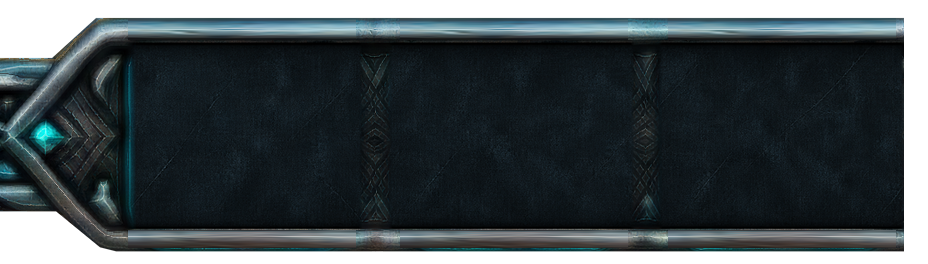
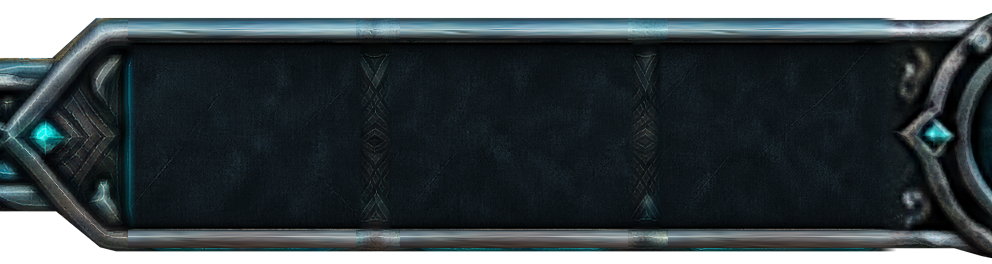
fix(hud): target panel exact match - right end medallion and right wing-tip diamond were never placed (EndRight sat at the strip origin over the left one = the doubled ring; no right medallion), frame geometry as pure StripMath.TargetFrame; rail stubs under the wing-tip diamonds (no gap, the runs ke

diff --git a/src/RuneSkin/Hud/HudCluster.cs b/src/RuneSkin/Hud/HudCluster.cs
@@ -135,6 +135,14 @@ namespace RuneSkin.PlayerHud
                 _eitr.UseShader(barShader, "color.hud.bar.fx.eitr", BarFxPool.Arcane);
                 _adrenaline.UseShader(barShader, "color.hud.bar.fx.adrenaline");
             }
+            // Target panel: the bar block piece is the outer frame only - each channel draws its own pill rim (the
+            // stamina | eitr split moves, so the rims cannot be baked into the block).
+            if (HudStrip.Target)
+            {
+                float rx = ThemeTokens.GetFloat("size.hud.strip7.rim.x", 4.3f), ry = ThemeTokens.GetFloat("size.hud.strip7.rim.y", 4.3f);
+                foreach (var b in new[] { _health, _stamina, _eitr, _adrenaline })
+                    b.Rim("sprite.hud.strip7.rim", "color.hud.strip.frame", rx, ry, ThemeTokens.GetFloat("share.hud.strip4.art", 1f));
+            }
             _row[0] = _stamina;
             _row[1] = _eitr;
             _row[2] = _adrenaline;
@@ -583,7 +591,7 @@ namespace RuneSkin.PlayerHud
                 h = h * 31 + (_root.parent ? _root.parent.lossyScale.x : 0f).GetHashCode();
                 h = h * 31 + (_canvas && _canvas.rootCanvas ? _canvas.rootCanvas.scaleFactor : 0f).GetHashCode();
                 h = h * 31 + (Plugin.HudScale?.Value ?? 1f).GetHashCode();
-                h = h * 31 + (Plugin.StripWidth?.Value ?? 0.96f).GetHashCode();
+                h = h * 31 + (Plugin.StripWidth?.Value ?? 1f).GetHashCode();
                 h = h * 31 + ResponsiveContext.SkinScale.GetHashCode();
                 h = h * 31 + SlotCanvasScale().GetHashCode();
                 h = h * 31 + (Plugin.UltrawideBox?.Value ?? true ? 1 : 0);
@@ -634,7 +642,7 @@ namespace RuneSkin.PlayerHud
             // the width is HudStrip.Width of the box and only the wings' straight rails stretch to fill it.
             var slotPx = StripMath.SlotPx(ThemeTokens.GetFloat("size.slot", 70f), ResponsiveContext.SkinScale, SlotCanvasScale());
             _pxPerUnit = StripMath.UnitPx(slotPx, ThemeTokens.GetFloat("size.hud.strip.cell", 85f));
-            var widthPx = StripMath.WidthPx(boxW, Plugin.StripWidth?.Value ?? 0.96f);
+            var widthPx = StripMath.WidthPx(boxW, Plugin.StripWidth?.Value ?? 1f);
             var input = _hudStrip.Input(widthPx / _pxPerUnit, barsH);
             var l = StripMath.Compute(input);
             _hudStrip.Apply(l, input);
@@ -653,8 +661,10 @@ namespace RuneSkin.PlayerHud
             RowPlace();
             _ = plaqueOn;
             // Screen placement: centred in the box, the bottom margin above the safe area.
-            var margin = ThemeTokens.GetFloat("size.hud.strip.margin", 8f) * s;
-            var bottom = safe.y + margin;
+            // Target panel (user 2026-10-23): flush with the screen bottom - the lowest frame edge (the end medallion tips
+            // under the wings) on the safe-area bottom, nothing clipped, no world under the panel.
+            var margin = HudStrip.Target ? 0f : ThemeTokens.GetFloat("size.hud.strip.margin", 8f) * s;
+            var bottom = safe.y + margin - (HudStrip.Target ? _hudStrip.FrameBottom * _pxPerUnit : 0f);
             var left = boxX + (boxW - widthPx) / 2f;
             PlaceAtScreen(_root, new Vector2(left, bottom), _pxPerUnit);
             _stripWidth = input.Width;
@@ -664,8 +674,9 @@ namespace RuneSkin.PlayerHud
             // InventoryMath's standard gap (size.inv.gap) from the strip top.
             _reservedTop = bottom + l.Height * _pxPerUnit + ThemeTokens.GetFloat("size.panel.glass.inset", 0f) * s;
             TextFloors();
-            ChatClear(bottom + l.Height * _pxPerUnit + ThemeTokens.GetFloat("size.hud.strip.chat.gap", 12f) * s);
-            Plugin.Log.LogInfo($"[RuneSkin] HUD strip layout: width {widthPx:0}px slot {slotPx:0.#}px scale {_pxPerUnit:0.###} height {l.Height:0} units = {l.Height * _pxPerUnit:0} px " +
+            _chatTopUnits = l.Height;
+            _chatGapPx = ThemeTokens.GetFloat("size.hud.strip.chat.gap", 12f) * s;
+            Plugin.Log.LogInfo($"[RuneSkin] HUD strip layout: width {widthPx:0}px origin ({left:0.##},{bottom:0.##})px slot {slotPx:0.#}px scale {_pxPerUnit:0.####} height {l.Height:0} units = {l.Height * _pxPerUnit:0} px " +
                                $"({100f * l.Height * _pxPerUnit / Mathf.Max(1f, Screen.height):0.0} % of {Screen.height}), food {l.FoodShown}/{_hudStrip.FoodCount} potions {l.PotionShown}/{_hudStrip.PotionCount} (wing fits {l.FoodMax}) abilities {_hudStrip.AbilityCount}{(l.Fits ? "" : " (tight)")}");
         }
 
@@ -694,68 +705,63 @@ namespace RuneSkin.PlayerHud
                 if (f) f.Apply();
         }
 
-        // The vanilla chat box (bottom right, Terminal.m_chatWindow; vanilla never moves it, Chat.cs) sits on the strip's
-        // right wing once the strip spans the screen: lifted so the box (its drawn graphics, not the window rect) clears
-        // the strip top. Measured while the window is shown (a hidden chat keeps stale rects): pending until then.
-        private RectTransform _chatWindow;
-        private Vector2 _chatHome;
-        private float _chatTarget;
-        private bool _chatPending, _chatWasActive;
+        // The vanilla chat box (bottom right, Terminal.m_chatWindow; vanilla never moves it, Chat.cs) sits over the
+        // strip's right wing once the strip spans the screen: lifted so its drawn graphics clear the strip top + a gap.
+        // Root cause of the stale lifts (runs 20261023-161531 / -175632: lifted from wherever the box was after a
+        // resolution change, or not at all): everything is now relative and live - the graphics' bottom is measured
+        // once in the window's own units (position independent), the home anchored position is taken once before any
+        // move, and every frame the wanted position = home + max(0, strip top - home bottom) in the window parent's
+        // units, both converted through their own canvases at that frame (no screen px cached across frames).
+        private static RectTransform _chatWindow;
+        private static Vector2 _chatHome;
+        private float _chatBottomW = float.NaN, _chatTopUnits = -1f, _chatGapPx;
+        private bool _chatWasActive;
         private readonly List<Graphic> _chatGraphics = new List<Graphic>(16);
         private readonly Vector3[] _corners = new Vector3[4];
-
-        private void ChatClear(float stripTopPx)
-        {
-            _chatTarget = stripTopPx;
-            _chatPending = true;
-            ChatTick();
-        }
 
         private void ChatTick()
         {
             var chat = Chat.instance;
             var w = chat ? chat.m_chatWindow : null;
-            var active = w && w.gameObject.activeInHierarchy;
-            // every time the chat shows, measure again (run 20261023-161531: measured once on a stale canvas scale
-            // right after a resolution change, then never again)
-            if (active && !_chatWasActive) _chatPending = true;
-            _chatWasActive = active;
-            if (!_chatPending || !active) return;
-            var rootCanvas = w.GetComponentInParent<Canvas>();
-            rootCanvas = rootCanvas ? rootCanvas.rootCanvas : null;
-            if (rootCanvas && Mathf.Abs(rootCanvas.scaleFactor - ResponsiveContext.GuiFactor) > 0.001f) return; // CanvasScaler not caught up
+            if (!w || !(w.parent is RectTransform parent) || _chatTopUnits < 0f) return;
             if (w != _chatWindow)
             {
                 _chatWindow = w;
-                _chatHome = w.anchoredPosition;
+                _chatHome = w.anchoredPosition; // before any move of ours
+                _chatBottomW = float.NaN;
             }
-            if (w.anchoredPosition != _chatHome) w.anchoredPosition = _chatHome;
-            var canvas = w.GetComponentInParent<Canvas>();
-            if (!canvas) return;
-            var cam = canvas.rootCanvas.renderMode == RenderMode.ScreenSpaceOverlay ? null : canvas.rootCanvas.worldCamera;
-            w.GetComponentsInChildren(false, _chatGraphics);
-            var bottom = float.MaxValue;
-            foreach (var g in _chatGraphics)
+            var active = w.gameObject.activeInHierarchy;
+            if (active && !_chatWasActive) _chatBottomW = float.NaN; // re-measure on show (laid out while shown)
+            _chatWasActive = active;
+            if (float.IsNaN(_chatBottomW))
             {
-                if (!g.enabled || g.rectTransform.rect.width < 1f || g.rectTransform.rect.height < 1f) continue;
-                g.rectTransform.GetWorldCorners(_corners);
-                bottom = Mathf.Min(bottom, RectTransformUtility.WorldToScreenPoint(cam, _corners[0]).y);
+                if (!active) return;
+                w.GetComponentsInChildren(false, _chatGraphics);
+                var min = float.MaxValue;
+                foreach (var g in _chatGraphics)
+                {
+                    if (!g.enabled || g.rectTransform.rect.width < 1f || g.rectTransform.rect.height < 1f) continue;
+                    g.rectTransform.GetWorldCorners(_corners);
+                    min = Mathf.Min(min, w.InverseTransformPoint(_corners[0]).y);
+                }
+                if (min == float.MaxValue) return; // laid out next frame
+                _chatBottomW = min;
             }
-            if (bottom == float.MaxValue) return; // laid out next frame: still pending
-            _chatPending = false;
-            var lift = _chatTarget - bottom;
-            if (lift <= 0f)
-            {
-                Plugin.Log.LogInfo($"[RuneSkin] chat box clear of the strip (bottom {bottom:0} px, strip top {_chatTarget:0} px)");
-                return;
-            }
-            // screen px -> the window's anchored units (its parent's scale)
-            w.GetWorldCorners(_corners);
-            var p0 = RectTransformUtility.WorldToScreenPoint(cam, _corners[0]).y;
-            var up = RectTransformUtility.WorldToScreenPoint(cam, _corners[0] + w.parent.TransformVector(Vector3.up)).y - p0;
-            if (!(up > 0f)) return;
-            w.anchoredPosition = _chatHome + new Vector2(0f, lift / up);
-            Plugin.Log.LogInfo($"[RuneSkin] chat box lifted {lift:0} px (bottom {bottom:0} px -> strip top {_chatTarget:0} px)");
+            var hudCanvas = _canvas ? _canvas.rootCanvas : null;
+            var chatCanvas = w.GetComponentInParent<Canvas>();
+            chatCanvas = chatCanvas ? chatCanvas.rootCanvas : null;
+            if (!hudCanvas || !chatCanvas) return;
+            var hudCam = hudCanvas.renderMode == RenderMode.ScreenSpaceOverlay ? null : hudCanvas.worldCamera;
+            var chatCam = chatCanvas.renderMode == RenderMode.ScreenSpaceOverlay ? null : chatCanvas.worldCamera;
+            var top = RectTransformUtility.WorldToScreenPoint(hudCam, _root.TransformPoint(new Vector3(0f, _chatTopUnits, 0f)));
+            top.y += _chatGapPx;
+            if (!RectTransformUtility.ScreenPointToLocalPointInRectangle(parent, top, chatCam, out var topLocal)) return;
+            var bottomNow = parent.InverseTransformPoint(w.TransformPoint(new Vector3(0f, _chatBottomW, 0f))).y;
+            var homeBottom = bottomNow - (w.anchoredPosition.y - _chatHome.y);
+            var want = _chatHome + new Vector2(0f, Mathf.Max(0f, topLocal.y - homeBottom));
+            if ((w.anchoredPosition - want).sqrMagnitude < 0.01f) return;
+            w.anchoredPosition = want;
+            Plugin.Log.LogInfo($"[RuneSkin] chat box at {want.y - _chatHome.y:0.#} units above home (strip top {top.y:0} px)");
         }
 
         // Status groups above the strip (user call 2026-10-22): buffs on one side, debuffs on the other (Hud.BuffSide),

diff --git a/src/RuneSkin/Hud/HudStrip.cs b/src/RuneSkin/Hud/HudStrip.cs
@@ -26,6 +26,7 @@ namespace RuneSkin.PlayerHud
         private readonly RectTransform _root, _back;
         private RectTransform _front;
         private readonly Image _wingL, _wingR, _bars, _block, _divider, _railL, _railR, _knotL, _knotR, _endL, _endR, _iconHp, _iconSt, _iconEi, _knot2L, _knot2R;
+        private readonly Image _field, _stubL, _stubR;
 
         // Target panel layout (mode.hud.strip.target, user screenshot 2026-10-23, strip-target/spec.md).
         public static bool Target => ThemeTokens.GetFloat("mode.hud.strip.target", 0f) > 0.5f;
@@ -76,18 +77,22 @@ namespace RuneSkin.PlayerHud
             // then the medallions and the cells (BuildFront).
             // Target panel extras (user screenshot 2026-10-23): rail runs and small diamond knots between the wings and the
             // bar block, the wings themselves (fixed pieces, the right one its own art), end medallions over the wing ends.
+            _stubL = Piece("RailStubLeft", _back, "sprite.hud.strip7.rail", Image.Type.Tiled);
+            _stubR = Piece("RailStubRight", _back, Own("sprite.hud.strip7.rail"), Image.Type.Tiled);
             _railL = Piece("RailLeft", _back, "sprite.hud.strip7.rail", Image.Type.Sliced);
             _railR = Piece("RailRight", _back, Own("sprite.hud.strip7.rail"), Image.Type.Sliced);
-            _knotL = Piece("KnotLeft", _back, "sprite.hud.strip7.knot", Image.Type.Simple);
-            _knotR = Piece("KnotRight", _back, Own("sprite.hud.strip7.knot"), Image.Type.Simple);
             _wingL = Piece("WingLeft", _back, "sprite.hud.strip4.wing", Image.Type.Sliced);
             _wingR = Piece("WingRight", _back, ThemeTokens.GetSprite("sprite.hud.strip4.wing.r") ? "sprite.hud.strip4.wing.r" : "sprite.hud.strip4.wing", Image.Type.Sliced);
             _endL = Piece("EndLeft", _back, "sprite.hud.strip7.end", Image.Type.Simple);
             _endR = Piece("EndRight", _back, Own("sprite.hud.strip7.end"), Image.Type.Simple);
+            // the wing-tip diamonds over the rail run and the wing's tip stub (target: the diamond sits on top)
+            _knotL = Piece("KnotLeft", _back, "sprite.hud.strip7.knot", Image.Type.Simple);
+            _knotR = Piece("KnotRight", _back, Own("sprite.hud.strip7.knot"), Image.Type.Simple);
             // small diamonds at the bar-block end of each rail run (target: diamonds at both rail ends)
             _knot2L = Piece("Knot2Left", _back, "sprite.hud.strip7.knot2", Image.Type.Simple);
             _knot2R = Piece("Knot2Right", _back, Own("sprite.hud.strip7.knot2"), Image.Type.Simple);
-            foreach (var img in new[] { _railL, _railR, _knotL, _knotR, _endL, _endR, _knot2L, _knot2R }) img.gameObject.SetActive(Target);
+            foreach (var img in new[] { _stubL, _stubR, _railL, _railR, _knotL, _knotR, _endL, _endR, _knot2L, _knot2R }) img.gameObject.SetActive(Target);
+            if (Target && ThemeTokens.GetSprite("sprite.hud.strip7.field")) _field = Piece("BarField", _back, "sprite.hud.strip7.field", Image.Type.Tiled);
             _bars = Piece("BarBlock", _back, "sprite.hud.strip4.bars", Image.Type.Sliced);
             _iconHp = Piece("IconHealth", _back, "sprite.hud.strip7.icon.hp", Image.Type.Simple);
             _iconSt = Piece("IconStamina", _back, "sprite.hud.strip7.icon.st", Image.Type.Simple);
@@ -311,30 +316,56 @@ namespace RuneSkin.PlayerHud
         // end medallions over them, a small diamond knot and a stretched rail run from each wing to the bar block.
         private static float T7(string name, float fallback) => ThemeTokens.GetFloat("size.hud.strip7." + name, fallback);
 
+        // Lowest frame edge in strip units (<= 0: the end medallion tips hang below the wings); HudCluster places the
+        // strip so this edge sits on the screen bottom.
+        public float FrameBottom { get; private set; }
+
+        private static readonly System.Func<string, float, float> T7Fn = T7;
+
         private void TargetFrame(in StripMath.Layout l)
         {
-            var w = l.RightX + l.RightW;
-            float endW = T7("end.w", 132.5f), endH = T7("end.h", 115.3f), endY = T7("end.y", -10f);
-            Box(_endL.rectTransform, 0f, endY, endW, endH, false);
-            float endRW = T7("end.r.w", endW), endRH = T7("end.r.h", endH), endRY = T7("end.r.y", endY);
-            float wingH = T7("wing.h", 95f), wingX = T7("wing.x", 85f), wingW = T7("wing.w", 371.7f), wingRW = T7("wing.r.w", 334.2f), wingRR = T7("wing.r.right", 111f);
-            Box(_wingL.rectTransform, wingX, 0f, wingW, wingH, false);
-            Box(_wingR.rectTransform, w - wingRR - wingRW, 0f, wingRW, wingH, false);
-            float knotX = T7("knot.x", 448f), knotW = T7("knot.w", 40.3f), knotY = T7("knot.y", 26f), knotH = T7("knot.h", 43.2f), knotRR = T7("knot.r.right", 436.5f);
-            Box(_knotL.rectTransform, knotX, knotY, knotW, knotH, false);
-            float knotRW = T7("knot.r.w", knotW), knotRH = T7("knot.r.h", knotH), knotRY = T7("knot.r.y", knotY);
-            float railX = T7("rail.x", 486f), railY = T7("rail.y", 15.8f), railH = T7("rail.h", 60.6f), railRR = T7("rail.r.right", 474f), tuck = T7("rail.tuck", 6f);
-            Box(_railL.rectTransform, railX, railY, Mathf.Max(0f, l.BarsX + T7("rail.tuck.l", tuck) - railX), railH, false);
-            var rx = l.BarsX + l.BarsW - tuck;
-            float railRY = T7("rail.r.y", railY), railRH = T7("rail.r.h", railH);
-            Box(_railR.rectTransform, rx, railRY, Mathf.Max(0f, w - railRR - rx), railRH, !HasOwn("sprite.hud.strip7.rail"));
+            var f = StripMath.TargetFrame(l, l.RightX + l.RightW, T7Fn);
+            FrameBottom = f.Bottom;
+            Place(_endL, f.EndL, false);
+            // the right end medallion (run 20261023-175632: never placed, it sat at the strip origin over the left one)
+            Place(_endR, f.EndR, !HasOwn("sprite.hud.strip7.end"));
+            Place(_wingL, f.WingL, false);
+            Place(_wingR, f.WingR, false);
+            Place(_knotL, f.KnotL, false);
+            Place(_knotR, f.KnotR, !HasOwn("sprite.hud.strip7.knot"));
+            Place(_railL, f.RailL, false);
+            Place(_railR, f.RailR, !HasOwn("sprite.hud.strip7.rail"));
+            Place(_stubL, f.StubL, false);
+            Place(_stubR, f.StubR, false);
+            Place(_knot2L, f.Knot2L, false);
+            Place(_knot2R, f.Knot2R, !HasOwn("sprite.hud.strip7.knot2"));
+            // a wing slot grown onto the rail run hides the wing-tip diamond under it (the round socket would leave its
+            // corners peeking out)
+            Show(_knotL, !(l.FoodShown > 0 && StripMath.Covers(l.FoodX + (l.FoodShown - 1) * l.FoodStep, l.FoodCell, f.KnotL)));
+            Show(_knotR, !(l.PotionShown > 0 && StripMath.Covers(l.PotionX, l.PotionCell, f.KnotR)));
+            Field(l);
             // pool icons in the bar block (heart / lightning / eitr socket), placed from its left edge
-            float k2dx = T7("knot2.dx", -21.6f), k2y = T7("knot2.y", 47.5f), k2w = T7("knot2.w", 30.5f), k2h = T7("knot2.h", 32.6f);
-            Box(_knot2L.rectTransform, l.BarsX + k2dx - k2w / 2f, k2y - k2h / 2f, k2w, k2h, false);
-            Box(_knot2R.rectTransform, l.BarsX + l.BarsW - k2dx - k2w / 2f, k2y - k2h / 2f, k2w, k2h, !HasOwn("sprite.hud.strip7.knot2"));
             Icon(_iconHp, "icon.hp", l.BarsX);
             Icon(_iconSt, "icon.st", l.BarsX);
             Icon(_iconEi, "icon.ei", l.BarsX);
+        }
+
+        private static void Place(Image img, in StripMath.Box b, bool mirrored) => Box(img.rectTransform, b.X, b.Y, b.W, b.H, mirrored);
+
+        private static void Show(Image img, bool on)
+        {
+            on = on && img.sprite;
+            if (img.gameObject.activeSelf != on) img.gameObject.SetActive(on);
+        }
+
+        // The bar block's metal field under the channels (the bar-frame piece is only the outer frame; its interior is
+        // open): stretched over the block between its end knots, under the frame piece.
+        private void Field(in StripMath.Layout l)
+        {
+            if (!_field) return;
+            // tiled along x (a seamless 4x repaint of the target's field), its height = the piece's own
+            float fl = T7("field.l", 112f), fr = T7("field.r", 112f), fb = T7("field.b", 2.9f), ft = T7("field.t", 2.9f);
+            Box(_field.rectTransform, l.BarsX + fl, l.BarsY + fb, l.BarsW - fl - fr, l.BarsH - fb - ft, false);
         }
 
 

diff --git a/src/RuneSkin/Hud/StripMath.cs b/src/RuneSkin/Hud/StripMath.cs
@@ -167,6 +167,60 @@ namespace RuneSkin.PlayerHud
             o.PotionY = inner - pc / 2f;
             o.Fits = o.FoodShown == i.Food && o.PotionShown == i.Potions;
         }
+        public struct Box
+        {
+            public float X, Y, W, H;
+            public Box(float x, float y, float w, float h) { X = x; Y = y; W = Math.Max(0f, w); H = Math.Max(0f, h); }
+            public float Right => X + W;
+            public float CenterX => X + W / 2f;
+        }
+
+        // Target panel frame pieces (strip-target/spec.md) in strip units, from the layout and the size.hud.strip7.*
+        // tokens (t7(name, fallback)). The small diamonds sit ON a continuous rail (run + stub), no gap.
+        // Bottom = the lowest piece edge (end medallion tips hang below the wing): the strip is placed so it is on screen.
+        public struct Frame
+        {
+            public Box EndL, EndR, WingL, WingR, KnotL, KnotR, RailL, RailR, StubL, StubR, Knot2L, Knot2R;
+            public float Bottom;
+        }
+
+        public static Frame TargetFrame(in Layout l, float width, Func<string, float, float> t7)
+        {
+            var f = new Frame();
+            var w = width;
+            float endW = t7("end.w", 132.5f), endH = t7("end.h", 115.3f), endY = t7("end.y", -10f);
+            f.EndL = new Box(0f, endY, endW, endH);
+            float endRW = t7("end.r.w", endW), endRH = t7("end.r.h", endH), endRY = t7("end.r.y", endY);
+            f.EndR = new Box(w - endRW, endRY, endRW, endRH);
+            float wingH = t7("wing.h", 95f), wingX = t7("wing.x", 85f), wingW = t7("wing.w", 371.7f), wingRW = t7("wing.r.w", 334.2f), wingRR = t7("wing.r.right", 111f);
+            f.WingL = new Box(wingX, 0f, wingW, wingH);
+            f.WingR = new Box(w - wingRR - wingRW, 0f, wingRW, wingH);
+            float knotX = t7("knot.x", 448f), knotW = t7("knot.w", 40.3f), knotY = t7("knot.y", 26f), knotH = t7("knot.h", 43.2f), knotRR = t7("knot.r.right", 436.5f);
+            f.KnotL = new Box(knotX, knotY, knotW, knotH);
+            float knotRW = t7("knot.r.w", knotW), knotRH = t7("knot.r.h", knotH), knotRY = t7("knot.r.y", knotY);
+            f.KnotR = new Box(w - knotRR - knotRW, knotRY, knotRW, knotRH);
+            // Rail runs at the target's own scale (the piece stretched over the target's run: rail.x / rail.r.right), and
+            // a short stub of the same tileable rail under the whole wing-tip diamond up to the run's start: the
+            // diamond's art ends short of its box, so without it a gap showed between diamond and rail (run
+            // 20261023-175632; the run itself must not move or stretch: its wire pattern is pinned to the target).
+            float railX = t7("rail.x", 486f), railY = t7("rail.y", 15.8f), railH = t7("rail.h", 60.6f), railRR = t7("rail.r.right", 474f), tuck = t7("rail.tuck", 6f);
+            f.RailL = new Box(railX, railY, l.BarsX + t7("rail.tuck.l", tuck) - railX, railH);
+            var rx = l.BarsX + l.BarsW - tuck;
+            f.RailR = new Box(rx, t7("rail.r.y", railY), w - railRR - rx, t7("rail.r.h", railH));
+            var stubL = f.KnotL.X;
+            f.StubL = new Box(stubL, railY, railX + t7("rail.stub.lap", 4f) - stubL, railH);
+            var stubR = f.RailR.Right - t7("rail.stub.lap", 4f);
+            f.StubR = new Box(stubR, f.RailR.Y, f.KnotR.Right - stubR, f.RailR.H);
+            float k2dx = t7("knot2.dx", -21.6f), k2y = t7("knot2.y", 47.5f), k2w = t7("knot2.w", 30.5f), k2h = t7("knot2.h", 32.6f);
+            f.Knot2L = new Box(l.BarsX + k2dx - k2w / 2f, k2y - k2h / 2f, k2w, k2h);
+            f.Knot2R = new Box(l.BarsX + l.BarsW - k2dx - k2w / 2f, k2y - k2h / 2f, k2w, k2h);
+            f.Bottom = Math.Min(0f, Math.Min(Math.Min(endY, endRY), Math.Min(f.RailL.Y, f.RailR.Y)));
+            return f;
+        }
+
+        // A wing slot [x, x + w] covers a connector diamond when it spans the diamond's centre (the slot hides it).
+        public static bool Covers(float x, float w, in Box knot) => w > 0f && x <= knot.CenterX && x + w >= knot.CenterX;
+
         // n slots over span, space-evenly (n + 1 equal gaps: margins = gaps). Too narrow: gaps shrink to minGap, then the
         // slots scale down together, never below minCell (then they overflow, centred). n = 0: nothing.
         public static void WingSlots(int n, float wantCell, float span, float minGap, float minCell, out float cell, out float gap)

diff --git a/src/RuneSkin/Hud/BarView.cs b/src/RuneSkin/Hud/BarView.cs
@@ -290,6 +290,26 @@ namespace RuneSkin.PlayerHud
             _length = -1f;
         }
 
+        // Target panel channel rim (user screenshot 2026-10-23): the pill outline around the frameless window (9-slice,
+        // its ends fixed, the middle stretched), ox / oy units outside the bar on each side; over the fill, under the
+        // value text and the shield glow. Follows the bar's size through its anchors (no per-frame work).
+        private Image _rim;
+
+        public void Rim(string spriteToken, string colorToken, float ox, float oy, float artScale)
+        {
+            if (_rim || !ThemeTokens.GetSprite(spriteToken)) return;
+            _rim = _art.Image("Rim", Root, spriteToken, colorToken, Image.Type.Sliced);
+            _art.Track(_rim, artScale);
+            _rim.raycastTarget = false;
+            var rt = _rim.rectTransform;
+            rt.anchorMin = Vector2.zero;
+            rt.anchorMax = Vector2.one;
+            rt.pivot = new Vector2(0.5f, 0.5f);
+            rt.offsetMin = new Vector2(-ox, -oy);
+            rt.offsetMax = new Vector2(ox, oy);
+            rt.SetSiblingIndex(_window.GetSiblingIndex() + 1);
+        }
+
         // Fixed outer width: window = outer - caps (readable floor size.hud.bar.min).
         public void SetOuterWidth(float outer)
         {

diff --git a/src/RuneSkin/Plugin.cs b/src/RuneSkin/Plugin.cs
@@ -169,7 +169,7 @@ namespace RuneSkin
                 new AcceptableValueRange<float>(0.6f, 1.6f)));
             UltrawideBox = Config.Bind("Hud", "UltrawideBox", true,
                 "On 21:9 and wider screens the HUD corners are those of a centred 16:9 box (off = true screen corners).");
-            StripWidth = Config.Bind("HudStrip", "Span", 0.995f, new ConfigDescription(
+            StripWidth = Config.Bind("HudStrip", "Span", 1f, new ConfigDescription(
                 "Width of the bottom HUD strip (key Span: the old Width was only a cap) as a share of the screen (or of the centred 16:9 box on ultrawide); only the straight wing rails stretch. Its height follows the slot size: hotbar cells = inventory grid cells (theme size.slot x Layout.SkinScale x the game's UI scale).", new AcceptableValueRange<float>(0.5f, 1f)));
             StatusPerRow = Config.Bind("HudStrip", "StatusPerRow", 10, new ConfigDescription(
                 "Status effect icons per row above the HUD strip (buffs on one side, debuffs on the other); a full row wraps upward.", new AcceptableValueRange<int>(1, 30)));
